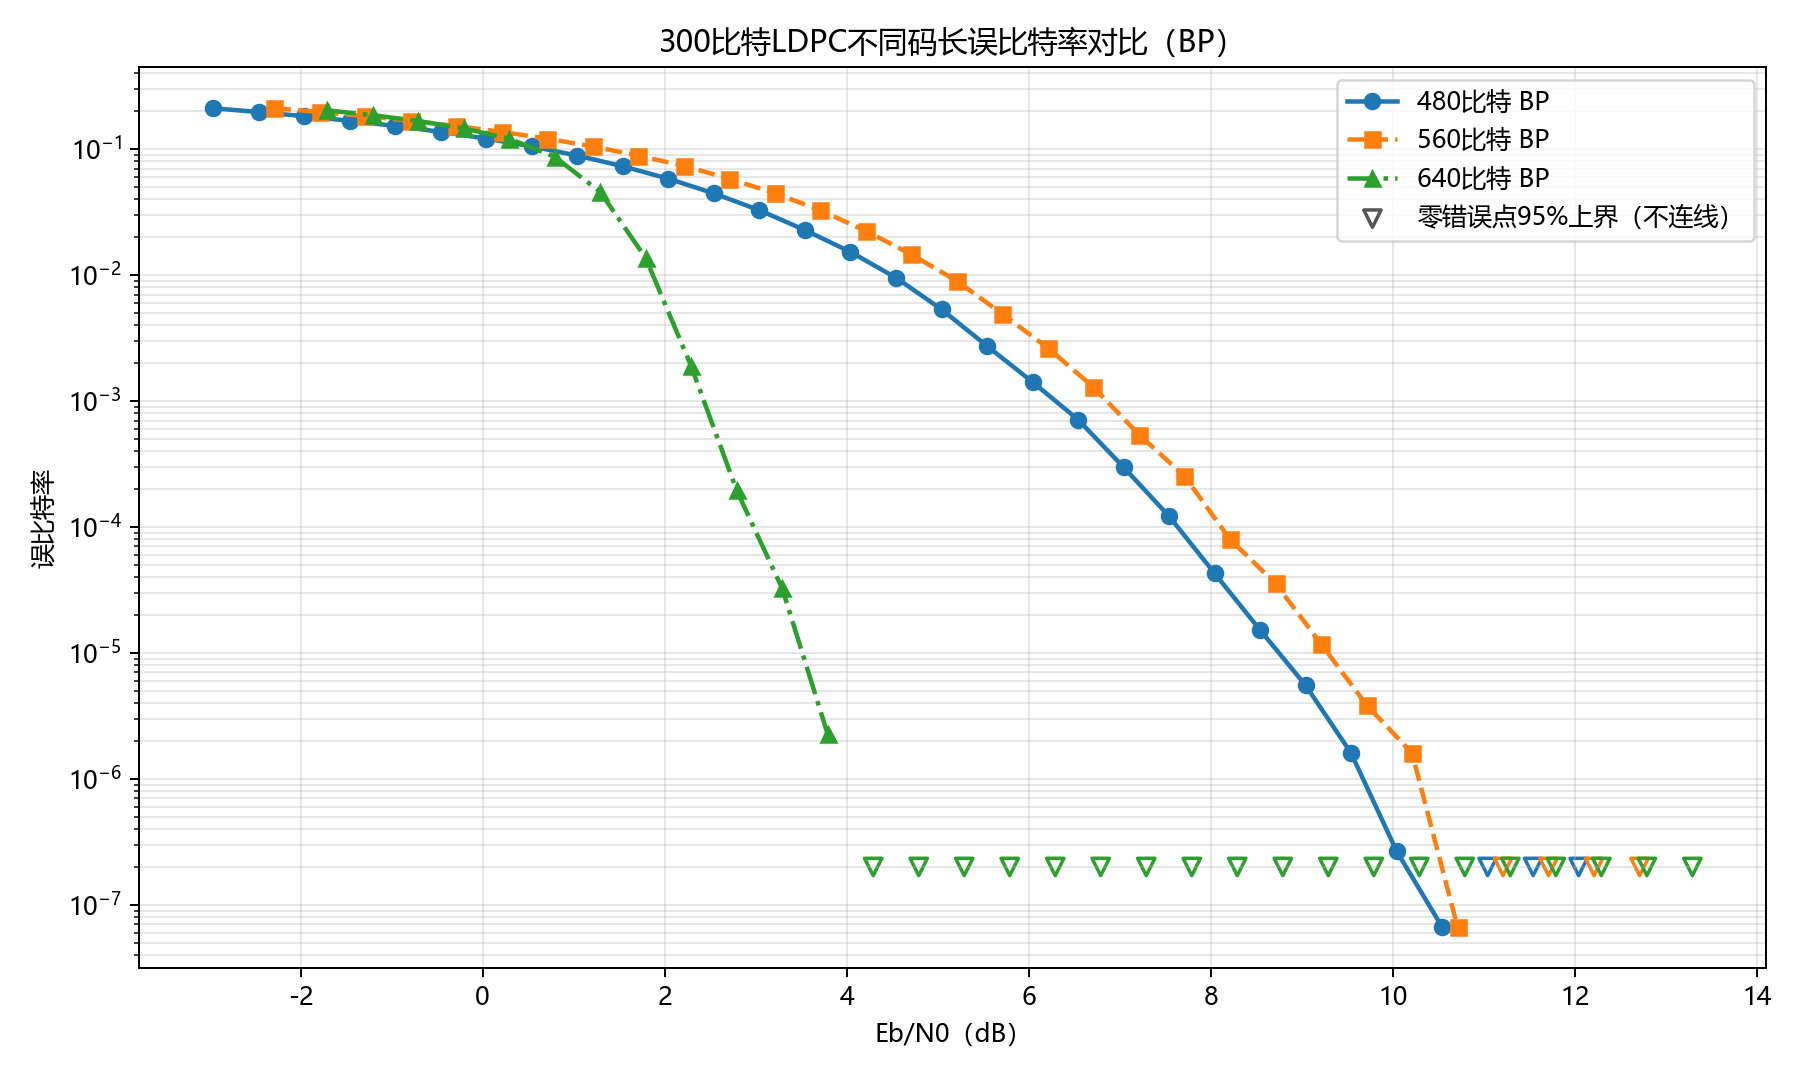
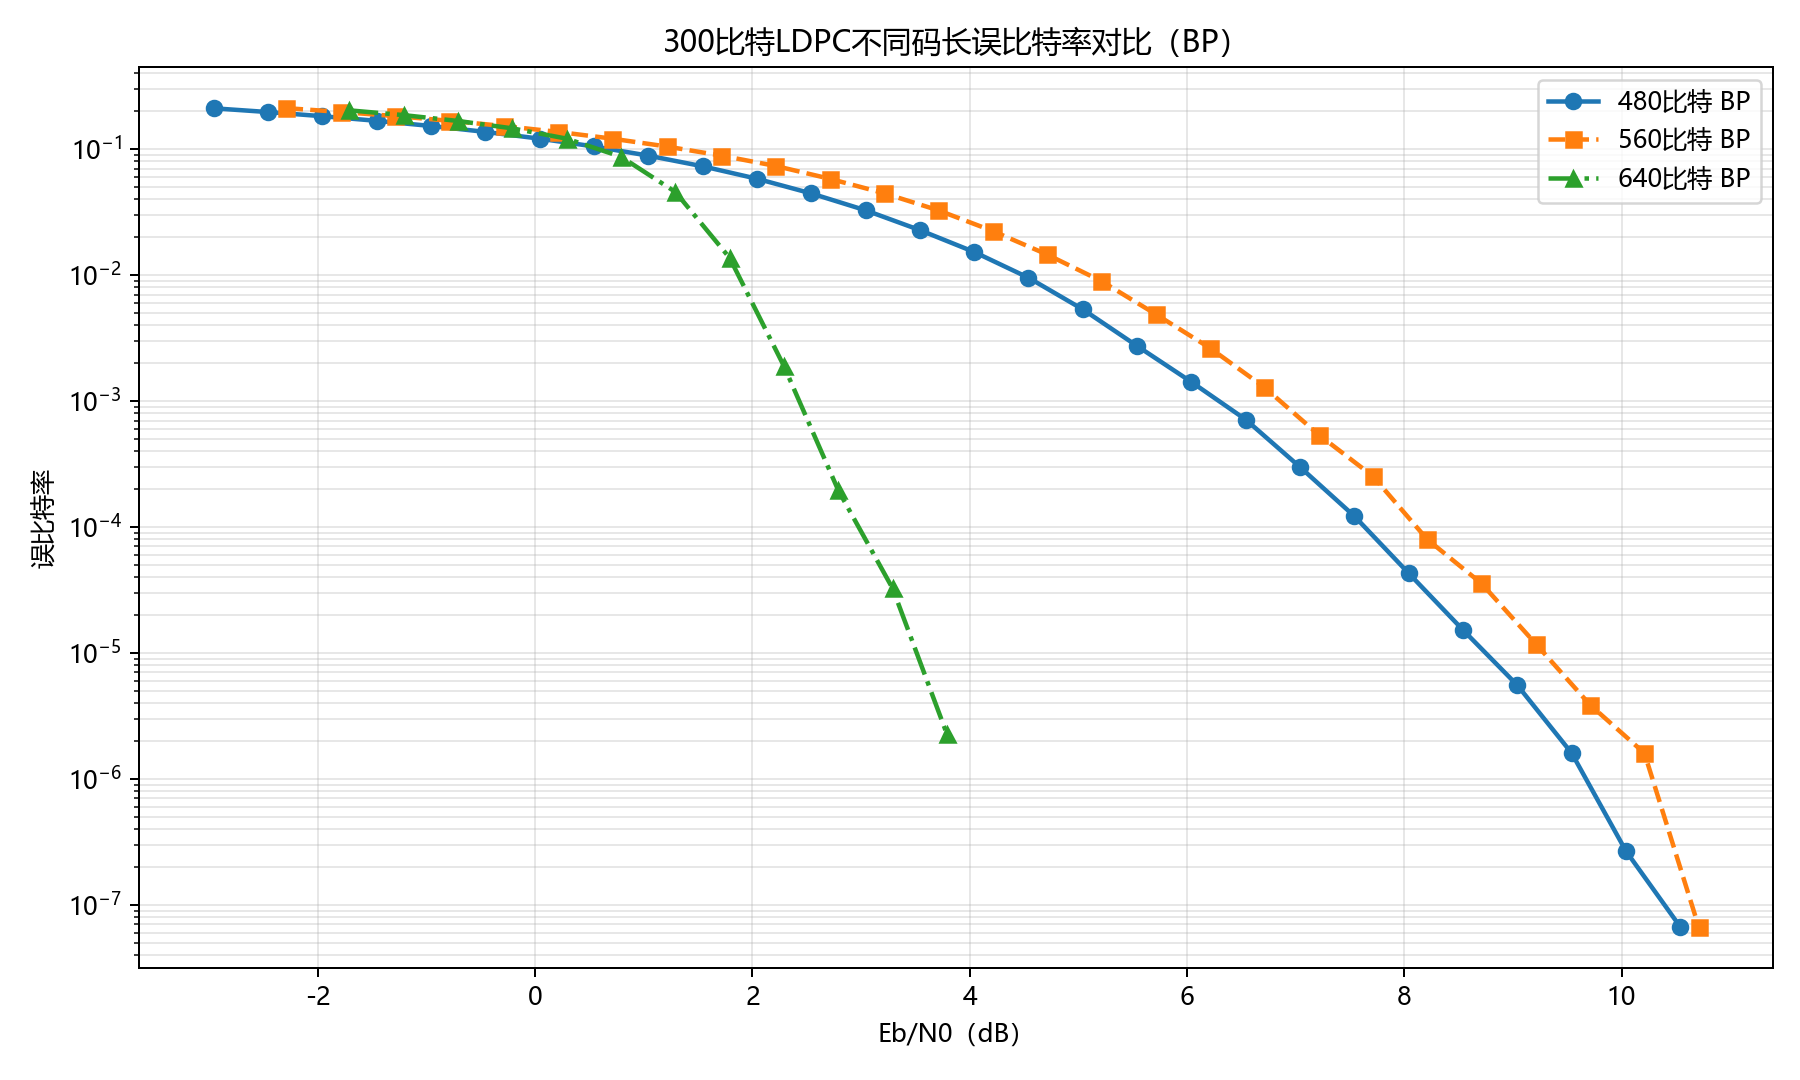
LDPC/绘图：隐藏零错误上界标记

diff --git a/Task/LDPC/block/scripts/revised_coding_gain.py b/Task/LDPC/block/scripts/revised_coding_gain.py
@@ -299,7 +299,7 @@ def style_manifest(out, stem, figure_data, title, x_label, y_label, x_scale, y_s
         "xScale": x_scale, "yScale": y_scale, "seriesMapping": series_mapping,
         "colorMapping": color_mapping, "lineStyleMapping": line_mapping,
         "markerMapping": marker_mapping, "legendMapping": legend_mapping,
-        "zeroErrorLegend": zero_legend, "zeroErrorHandling": "RAW_ZERO_PRESERVED_NOT_CONNECTED",
+        "zeroErrorLegend": zero_legend, "zeroErrorHandling": "RAW_ZERO_PRESERVED_NOT_PLOTTED",
         "sourceData": figure_data.name, "sourceDataSha256": source_hash,
         "figureDataCsv": figure_data.name, "figureDataCsvSha256": sha(figure_data),
         "plotScript": str(Path(__file__).relative_to(ROOT)).replace("\\", "/"),
@@ -332,18 +332,16 @@ def redraw_support_plot(out, stem, algorithm, metric, font_name):
                     ax.plot(regular_x, regular_y, color=style["color"], linestyle=style["linestyle"], marker=style["marker"], linewidth=1.8, markersize=6, label=labels[n] if not labelled else None)
                     labelled = True
                 regular_x, regular_y = [], []
-                ax.scatter([float(row["ebN0Db"])], [float(row["upperBound95"])], marker="v", facecolors="none", edgecolors=style["color"], linewidths=1.4, s=48)
             else:
                 regular_x.append(float(row["ebN0Db"])); regular_y.append(float(row["rawValue"]))
         if regular_x:
             ax.plot(regular_x, regular_y, color=style["color"], linestyle=style["linestyle"], marker=style["marker"], linewidth=1.8, markersize=6, label=labels[n] if not labelled else None)
-    ax.scatter([], [], marker="v", facecolors="none", edgecolors="#555555", linewidths=1.4, s=48, label="零错误点95%上界（不连线）")
     ax.set_title(title); ax.set_xlabel(AXIS_LABELS_ZH["ebn0"]); ax.set_ylabel(AXIS_LABELS_ZH[metric])
     ax.set_yscale("log"); ax.grid(True, which="both", alpha=0.3); ax.legend(loc="upper right")
     fig.tight_layout(); fig.savefig(out / f"{stem}.png", dpi=180); plt.close(fig)
     if sha(figure_data) != before_hash: raise RuntimeError("BLOCKED_PLOT_REVISION_FIGURE_DATA_CHANGED")
     series = {str(n): labels[n] for n in LENGTHS}
-    style_manifest(out, stem, figure_data, title, AXIS_LABELS_ZH["ebn0"], AXIS_LABELS_ZH[metric], "linear", "log", series, {str(n): LENGTH_STYLE[n]["color"] for n in LENGTHS}, {str(n): LENGTH_STYLE[n]["linestyle"] for n in LENGTHS}, {str(n): LENGTH_STYLE[n]["marker"] for n in LENGTHS}, series, "零错误点95%上界（不连线）", before_hash, font_name, True)
+    style_manifest(out, stem, figure_data, title, AXIS_LABELS_ZH["ebn0"], AXIS_LABELS_ZH[metric], "linear", "log", series, {str(n): LENGTH_STYLE[n]["color"] for n in LENGTHS}, {str(n): LENGTH_STYLE[n]["linestyle"] for n in LENGTHS}, {str(n): LENGTH_STYLE[n]["marker"] for n in LENGTHS}, series, "NOT_PLOTTED_BY_REQUEST", before_hash, font_name, True)
     return before_hash
 
 
@@ -412,7 +410,8 @@ def plotcheck():
             if "length_" in stem:
                 assert manifest["yScale"] == "log" and len(manifest["seriesMapping"]) == 3
                 assert manifest["lengthStyleMapping"] == {"480": {"lineStyle": "-", "marker": "o"}, "560": {"lineStyle": "--", "marker": "s"}, "640": {"lineStyle": "-.", "marker": "^"}}
-                assert manifest["zeroErrorLegend"] == "零错误点95%上界（不连线）"
+                assert manifest["zeroErrorLegend"] == "NOT_PLOTTED_BY_REQUEST"
+                assert manifest["zeroErrorHandling"] == "RAW_ZERO_PRESERVED_NOT_PLOTTED"
                 if stem.startswith("nms_"):
                     assert manifest["alphaMapping"] == {"480": 0.95, "560": 0.95, "640": 0.8}
             else:
